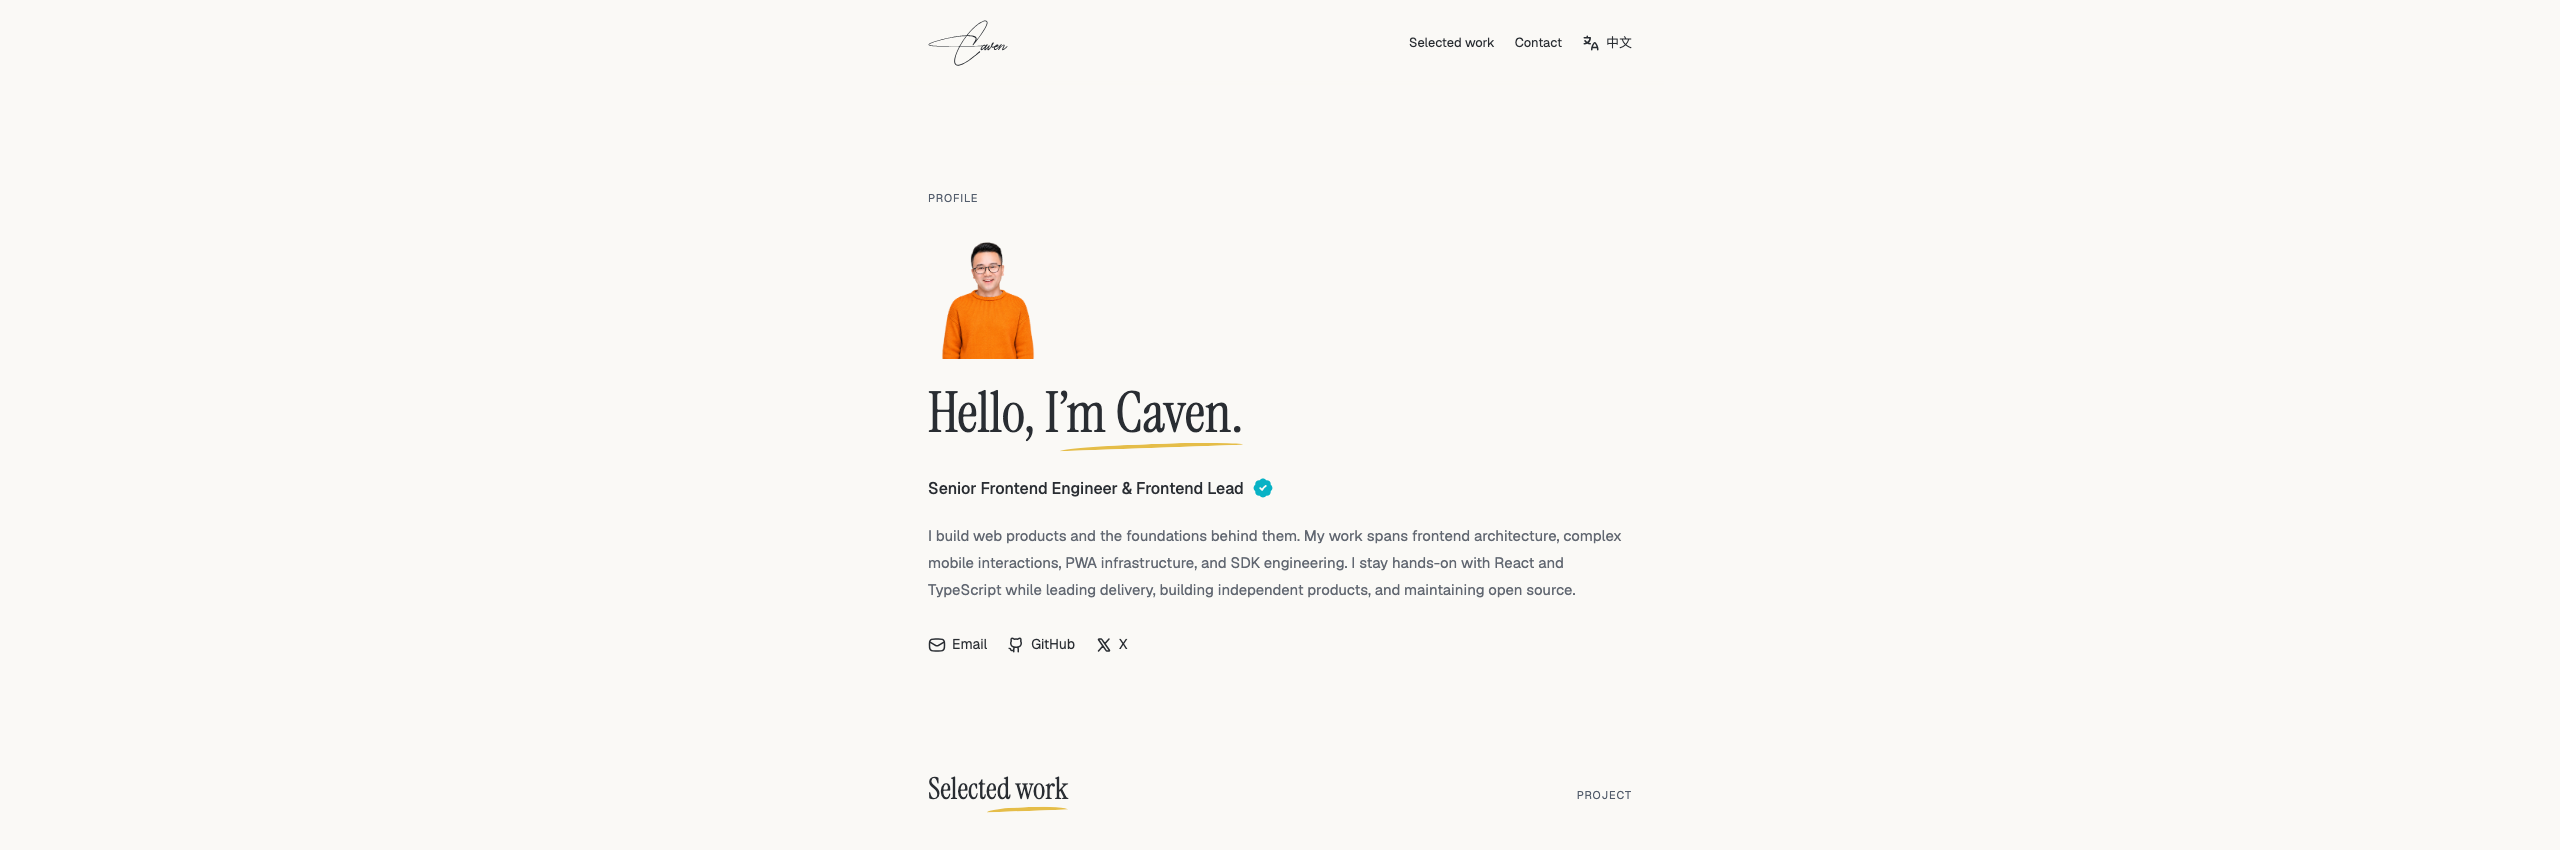
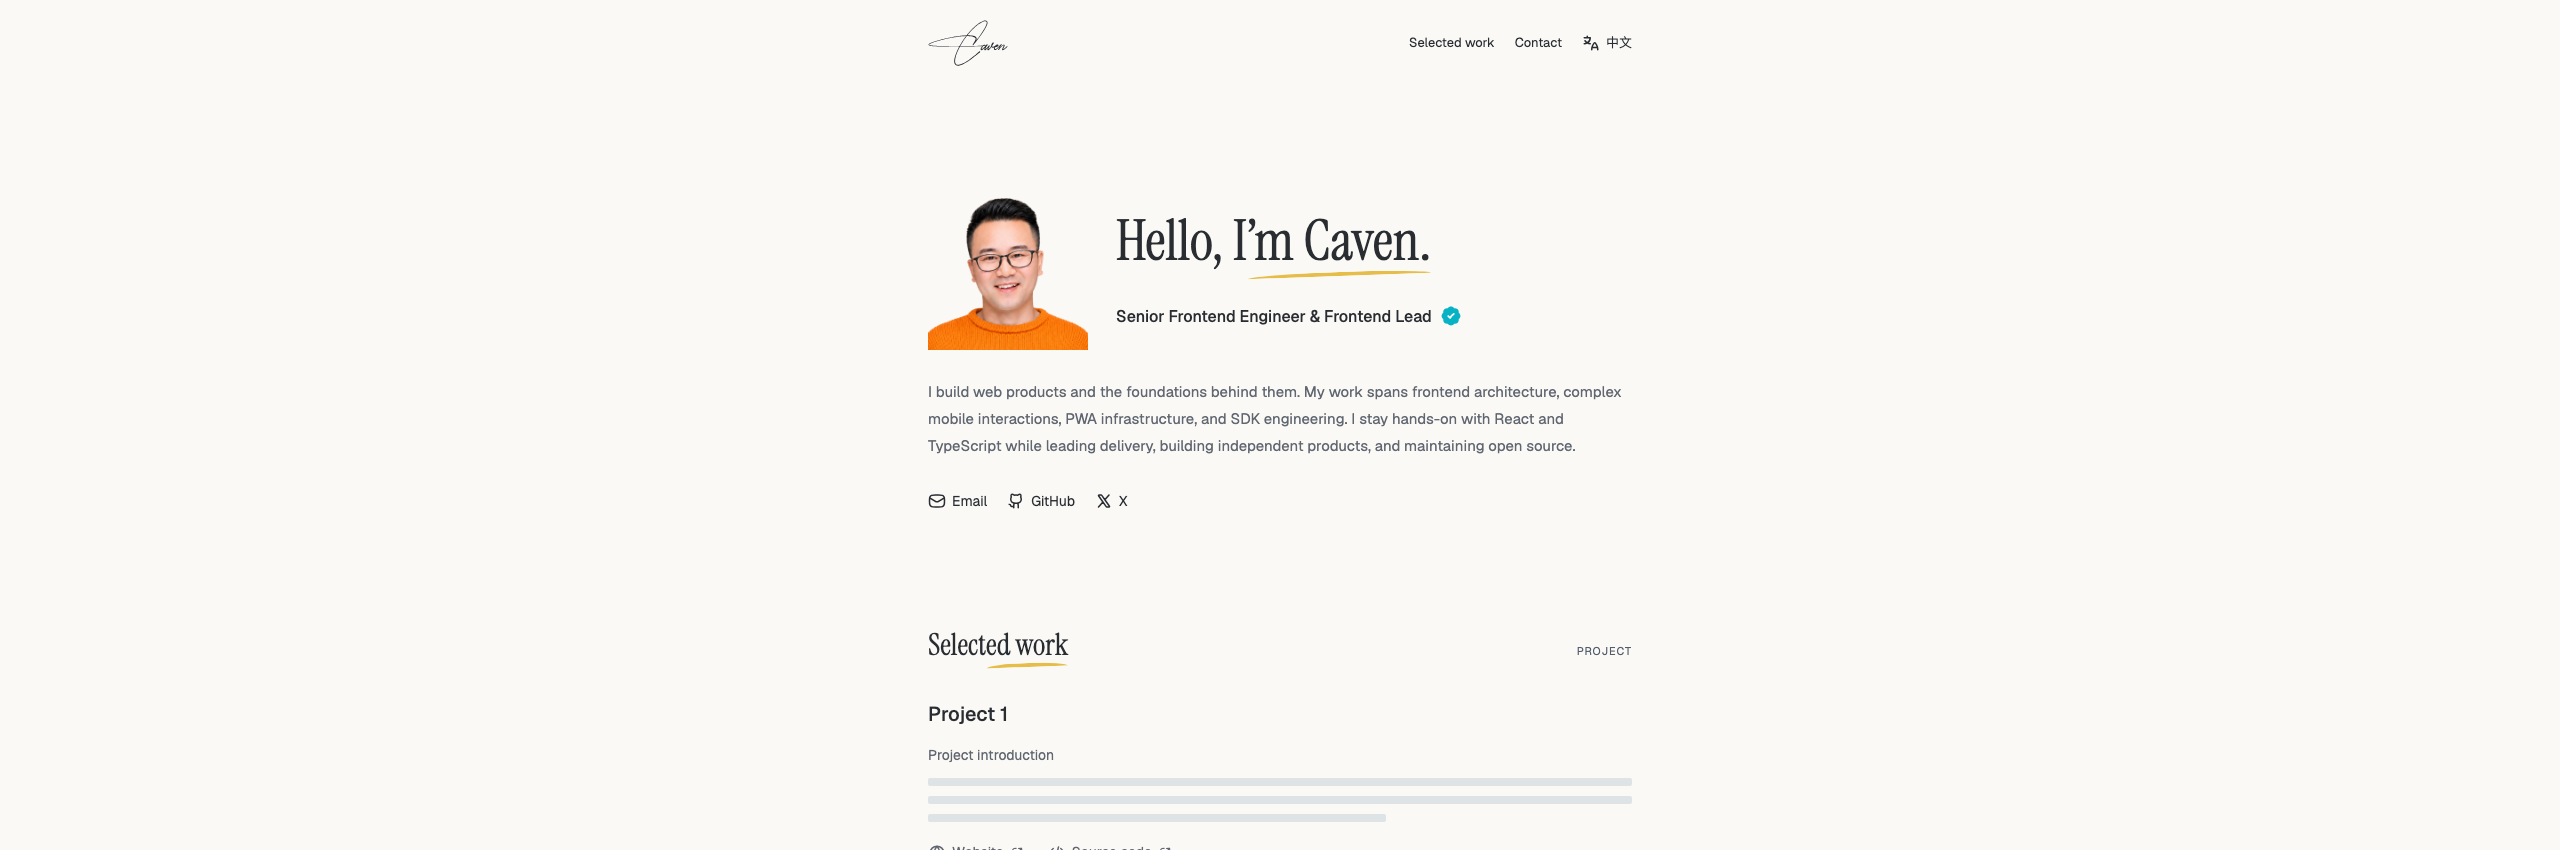
style: align shoulder portrait beside greeting and role

diff --git a/src/styles/global.css b/src/styles/global.css
@@ -45,9 +45,10 @@ main {
 }
 .intro-layout {
   display: grid;
-  grid-template-columns: minmax(0, 1fr);
-  gap: 24px;
-  margin-top: 32px;
+  grid-template-columns: 160px minmax(0, 1fr);
+  align-items: center;
+  gap: 28px;
+  margin-bottom: 28px;
 }
 h1,
 h2 {
@@ -83,7 +84,7 @@ h3 {
 }
 .portrait-slot {
   display: block;
-  width: 120px;
+  width: 100%;
   height: auto;
   object-fit: contain;
 }
@@ -365,9 +366,15 @@ h3 {
     padding: 20px;
   }
   .intro-layout {
-    grid-template-columns: minmax(0, 1fr);
-    gap: 24px;
-    margin-top: 24px;
+    grid-template-columns: 88px minmax(0, 1fr);
+    gap: 16px;
+  }
+  .intro-layout h1 {
+    font-size: 32px;
+    margin-bottom: 16px;
+  }
+  .intro-layout .intro-role {
+    font-size: 13px;
   }
 
   .project-grid {
@@ -520,7 +527,7 @@ a:hover {
 .intro-role {
   font-size: 16px;
   line-height: 1.6;
-  margin-bottom: 20px;
+  margin-bottom: 0;
   font-weight: 500;
 }
 .intro-copy {

diff --git a/docs/identity-review.md b/docs/identity-review.md
@@ -13,9 +13,9 @@ frontend architecture, mobile interaction, PWA, SDK, React/TypeScript, team deli
 independent product and open-source experience without adding dates, metrics, or
 employer/project claims. The English and Chinese versions have equivalent meaning.
 The source document was only read, and is not included in this repository.
-The portrait uses Caven's supplied 2508px RGBA PNG with actual transparency. It is
-served unchanged, without a circular background or cropping, above the greeting
-and aligned with the text. The introduction spans the available text column; the
+The portrait uses Caven's supplied 1440px RGBA PNG with actual transparency. It is
+served unchanged, without a circular background or cropping, to the left of the greeting
+and role, with the PROFILE label removed. The introduction spans the available text column; the
 previous 58ch cap was removed after the portrait moved out of the right column.
 
 Project, experience, toolkit and additional-work details remain localized

diff --git a/README.md b/README.md
@@ -106,7 +106,7 @@ preserves valid page fragments when JavaScript is available.
 
 Geist (400/500) and Instrument Serif (400) are bundled from pinned Fontsource
 packages, with local Chinese system fallbacks. They make no external font requests.
-Both packages include their SIL Open Font License. The portrait uses the user-supplied 2508px transparent PNG without cropping or a circular background. It sits above the greeting, aligned with the text. The source resume
+Both packages include their SIL Open Font License. The portrait uses the user-supplied 1440px transparent PNG without cropping or a circular background. The shoulder-length portrait sits to the left of the greeting and role. The source resume
 and phone number are not distributed. The outlined signature and Tianchi candidate
 are reused from #3. `noindex` remains until the discovery/release slice (#9).
 
